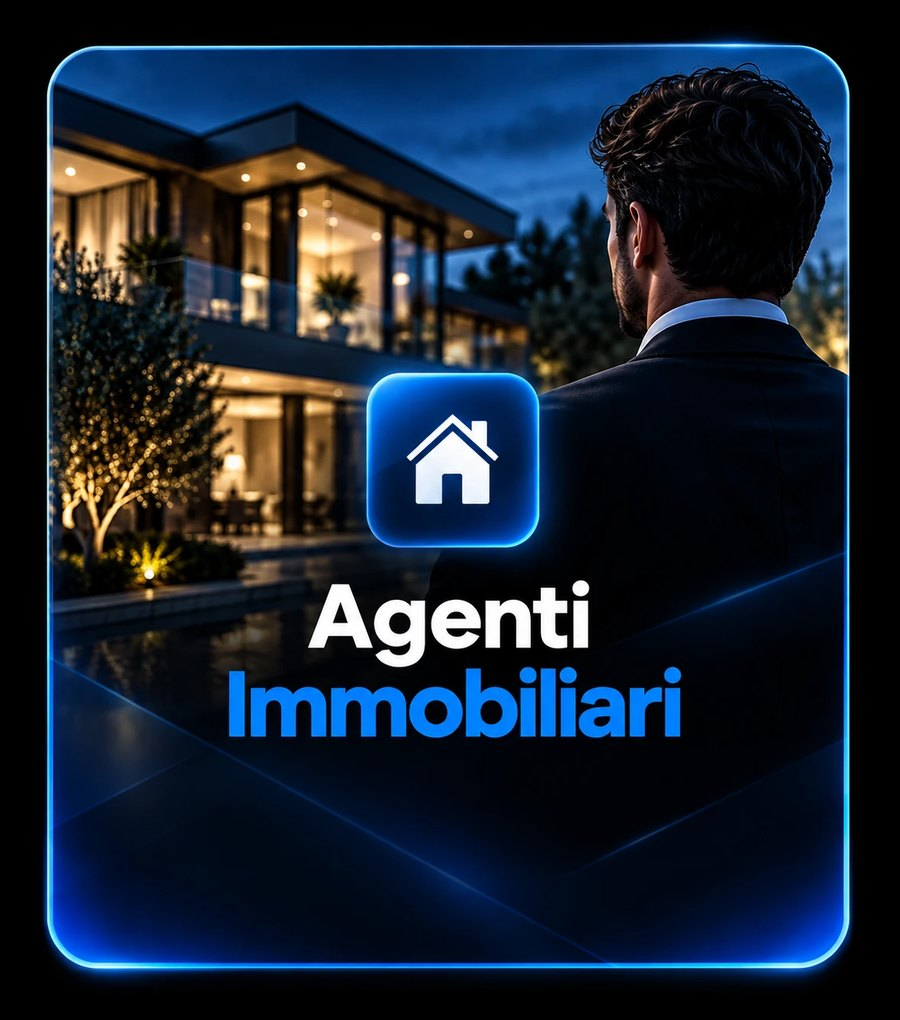
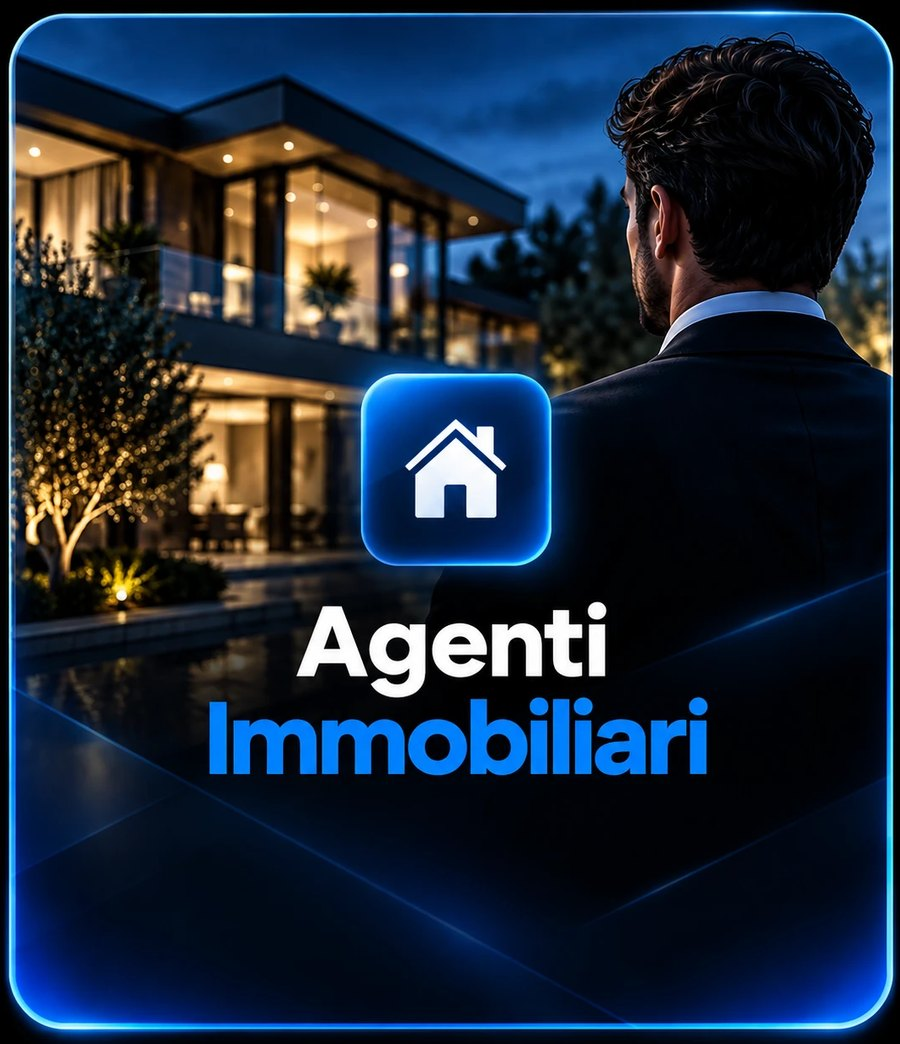
App: card accademie più grandi e tutte della stessa forma
- Card larghe circa il 70% dello schermo su telefono, 270px su computer
- Tolto il bordo nero attorno alle card Canva
- Le accademie senza card Canva hanno nome e icona dentro il riquadro,
  con cornice luminosa del loro colore

Claude-Session: https://claude.ai/code/session_01FHJ8CiFp8TTzEXJ1CJgmMP

diff --git a/app/app.css b/app/app.css
@@ -687,3 +687,24 @@ body::before{content:"";position:fixed;inset:0;z-index:-1;pointer-events:none;
 .acard.full{padding-bottom:10px}
 .acard.full img{width:100%;aspect-ratio:900/1020;object-fit:cover;border-radius:16px}
 .acard.full .tag{margin-top:6px;background:none;color:var(--muted);padding:0}
+
+/* Card accademie più grandi */
+.acard{width:min(70vw,290px)}
+.acard h4{font-size:19px}
+.acard .tile{width:52px;height:52px;margin-top:-34px}
+.acard .tile svg{width:26px;height:26px}
+.acard.full .tag{font-size:12px}
+.acards{gap:14px;margin-bottom:-6px}
+@media (min-width:1024px){.acard{width:270px}.acard h4{font-size:21px}}
+
+/* Tutte le card accademia con la stessa forma (come quelle fatte su Canva) */
+.acard{padding-bottom:4px;border:0}
+.acard:hover{border:0}
+.acard.full img{aspect-ratio:900/1040}
+.acard.boxed .ph{aspect-ratio:900/1040;border-radius:18px;border:1.5px solid color-mix(in srgb,var(--c) 75%,transparent);box-shadow:0 0 22px -6px var(--c),inset 0 0 30px -12px var(--c)}
+.acard.boxed .ph::after{background:linear-gradient(180deg,transparent 30%,rgba(0,0,0,.85) 100%)}
+.acard.boxed .ov{position:absolute;left:0;right:0;bottom:16%;z-index:1;display:flex;flex-direction:column;align-items:center;gap:12px;padding:0 10px}
+.acard.boxed .tile{margin:0}
+.acard.boxed h4{margin:0;font-size:21px;line-height:1.05;text-shadow:0 2px 12px rgba(0,0,0,.6)}
+.acard .tag,.acard.boxed .tag{margin-top:8px;background:none;color:var(--muted);padding:0;font-size:12px}
+@media (min-width:1024px){.acard.boxed h4{font-size:22px}}

diff --git a/app/app.js b/app/app.js
@@ -165,12 +165,9 @@ function academyCard(a) {
     <img src="${esc(safeUrl(a.card))}" alt="${esc(a.name)}" loading="lazy">
     <span class="tag">${(a.subs || []).length ? `${a.subs.length} sezioni · ` : ""}${S.content.modules.filter((m) => m.academyId === a.id).length} corsi</span>
   </a>`;
-  return `<a class="acard" href="#/percorso/${esc(a.id)}" style="--c:${c}">
-    <div class="ph">${coverBg(a.cover, c, a.icon)}</div>
-    <span class="tile">${icon(a.icon || "cap")}</span>
-    <h4>${esc(a.name)}</h4>
+  return `<a class="acard boxed" href="#/percorso/${esc(a.id)}" style="--c:${c}">
+    <div class="ph">${coverBg(a.cover, c, a.icon)}<div class="ov"><span class="tile">${icon(a.icon || "cap")}</span><h4>${esc(a.name)}</h4></div></div>
     <span class="tag">${(a.subs || []).length ? `${a.subs.length} sezioni · ` : ""}${S.content.modules.filter((m) => m.academyId === a.id).length} corsi</span>
-    <div class="bar"></div>
   </a>`;
 }
 function secHd(title, count, extra = "") {
